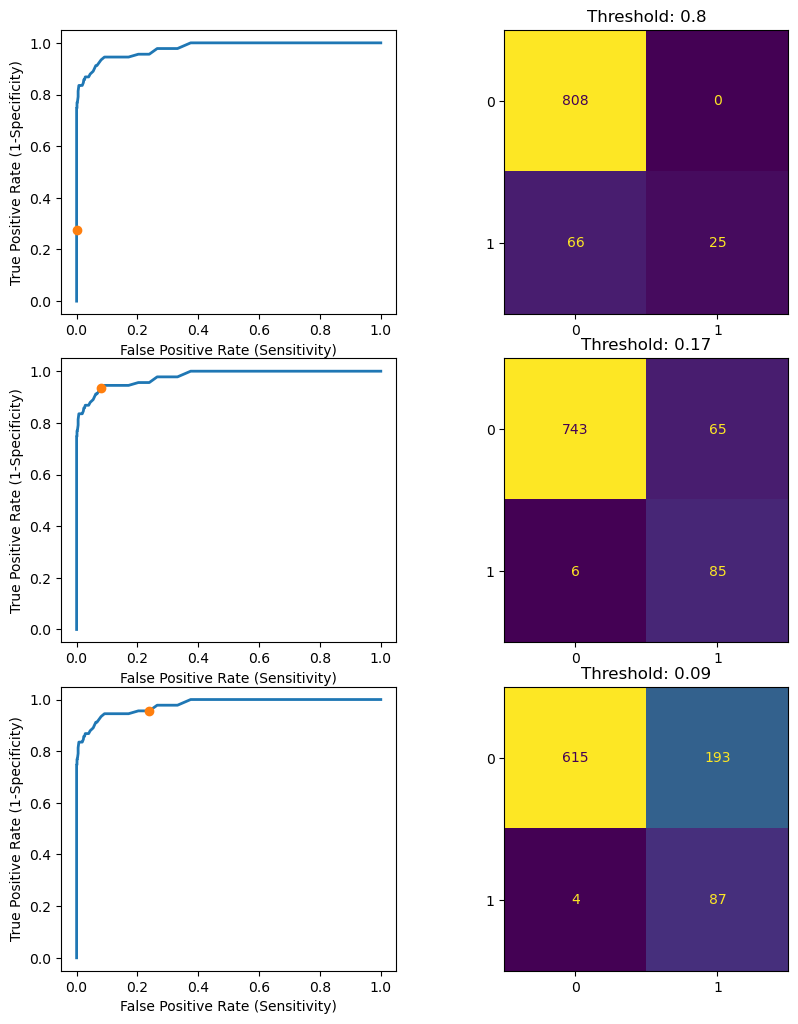
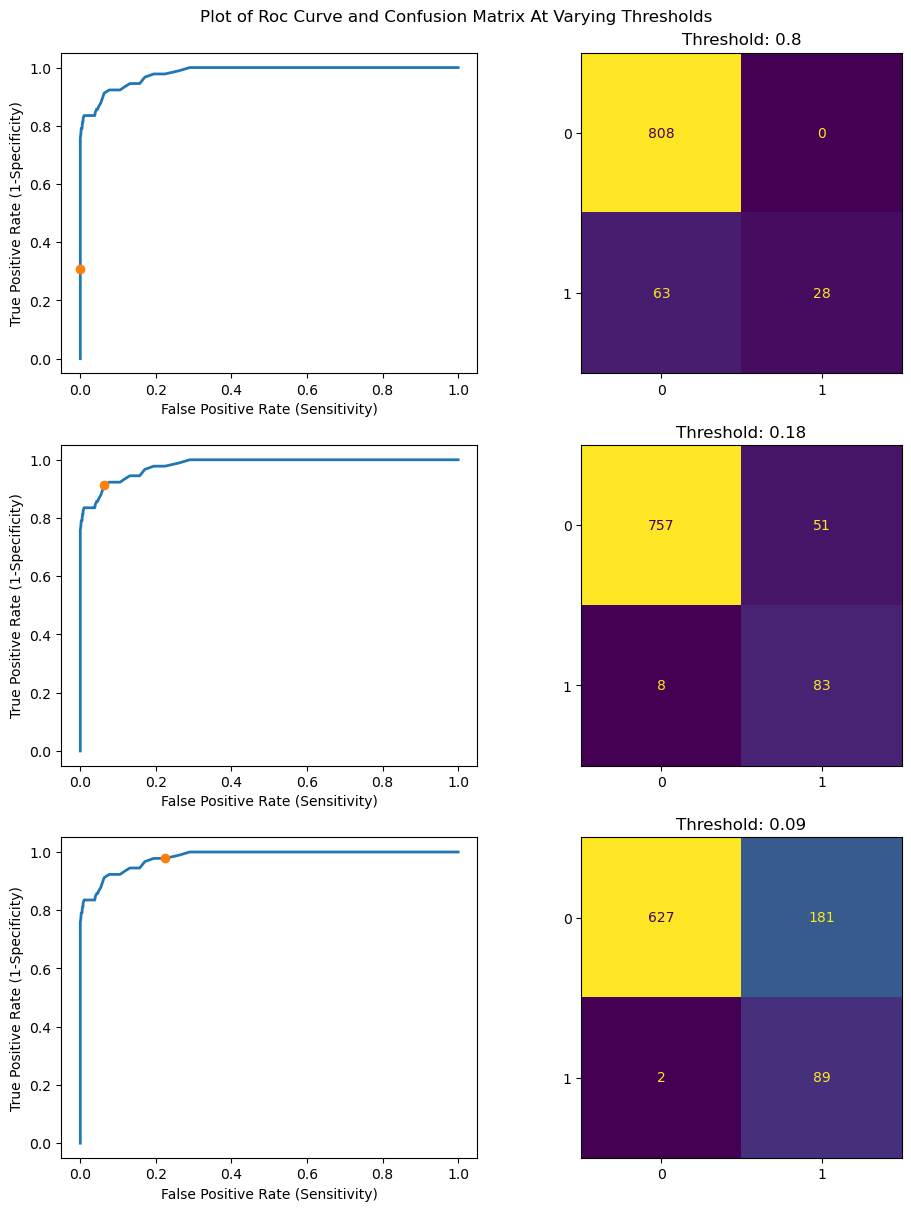
Built site for gh-pages

diff --git a/index.html b/index.html
@@ -135,7 +135,7 @@ pre > code.sourceCode > span > a:first-child::before { text-decoration: underlin
 <p>In addition, we’ll explore the decision-making process behind selecting a classification threshold and briefly discuss the implications of the area under the curve (AUC) for varying receiver operating characteristic (ROC) curves.</p>
 <p>It should be noted that this article uses a modified version of the digits dataset provided by sci-kit learn.</p>
 <p>Our version of the digits dataset converts the target lists for the classification task to boolean values, such that they are only valid for the digit “3” and invalid for all other digits – restricting our data to two classes.</p>
-<div class="cell" data-execution_count="2">
+<div class="cell" data-execution_count="14">
 <details>
 <summary>Code</summary>
 <div class="sourceCode cell-code" id="cb1"><pre class="sourceCode python code-with-copy"><code class="sourceCode python"><span id="cb1-1"><a href="#cb1-1" aria-hidden="true" tabindex="-1"></a><span class="co"># Loading and processing digits dataset</span></span>
@@ -163,7 +163,7 @@ pre > code.sourceCode > span > a:first-child::before { text-decoration: underlin
 <p>False-Positive Rate (1-specificity):</p>
 <p><span class="math inline">FP/(FP+TN)</span></p>
 <p>The plot below is an example of a ROC curve produced using our version of the digits dataset.</p>
-<div class="cell" data-execution_count="3">
+<div class="cell" data-execution_count="15">
 <details>
 <summary>Code</summary>
 <div class="sourceCode cell-code" id="cb2"><pre class="sourceCode python code-with-copy"><code class="sourceCode python"><span id="cb2-1"><a href="#cb2-1" aria-hidden="true" tabindex="-1"></a><span class="co"># Create classifier: RF </span></span>
@@ -176,10 +176,10 @@ pre > code.sourceCode > span > a:first-child::before { text-decoration: underlin
 <span id="cb2-8"><a href="#cb2-8" aria-hidden="true" tabindex="-1"></a>clf_pred <span class="op">=</span> clf.predict_proba(X_test)</span>
 <span id="cb2-9"><a href="#cb2-9" aria-hidden="true" tabindex="-1"></a></span>
 <span id="cb2-10"><a href="#cb2-10" aria-hidden="true" tabindex="-1"></a>fpr, tpr, thresholds <span class="op">=</span> metrics.roc_curve(y_test_mod, clf_pred[:,<span class="dv">1</span>])</span>
-<span id="cb2-11"><a href="#cb2-11" aria-hidden="true" tabindex="-1"></a>plt.figure(figsize<span class="op">=</span>(<span class="dv">5</span>,<span class="dv">3</span>))</span>
-<span id="cb2-12"><a href="#cb2-12" aria-hidden="true" tabindex="-1"></a>plt.plot(fpr, tpr, linewidth<span class="op">=</span><span class="dv">2</span>, label<span class="op">=</span><span class="st">"ROC curve"</span>)</span>
-<span id="cb2-13"><a href="#cb2-13" aria-hidden="true" tabindex="-1"></a>plt.xlabel(<span class="st">'False Positive Rate (Sensitivity)'</span>)</span>
-<span id="cb2-14"><a href="#cb2-14" aria-hidden="true" tabindex="-1"></a>plt.ylabel(<span class="st">'True Positive Rate (1-Specificity)'</span>)</span>
+<span id="cb2-11"><a href="#cb2-11" aria-hidden="true" tabindex="-1"></a>plt.title(<span class="st">"ROC Curve"</span>)</span>
+<span id="cb2-12"><a href="#cb2-12" aria-hidden="true" tabindex="-1"></a>plt.plot(fpr, tpr, linewidth<span class="op">=</span><span class="dv">2</span>)</span>
+<span id="cb2-13"><a href="#cb2-13" aria-hidden="true" tabindex="-1"></a>plt.xlabel(<span class="st">"False Positive Rate (Sensitivity)"</span>)</span>
+<span id="cb2-14"><a href="#cb2-14" aria-hidden="true" tabindex="-1"></a>plt.ylabel(<span class="st">"True Positive Rate (1-Specificity)"</span>)</span>
 <span id="cb2-15"><a href="#cb2-15" aria-hidden="true" tabindex="-1"></a></span>
 <span id="cb2-16"><a href="#cb2-16" aria-hidden="true" tabindex="-1"></a>plt.show()</span></code><button title="Copy to Clipboard" class="code-copy-button"><i class="bi"></i></button></pre></div>
 </details>
@@ -193,7 +193,7 @@ pre > code.sourceCode > span > a:first-child::before { text-decoration: underlin
 <p>For a given test, we have a classification <strong>threshold</strong> for which any items above the threshold are part of the positive class and any items below the threshold are part of the negative class.</p>
 <p>As mentioned previously, the ROC curve visualizes how sensitivity and specificity are negatively correlated to each other with respect to these changes in the classification threshold.</p>
 <p>Consider the plots of our digits datasets with varying thresholds below:</p>
-<div class="cell" data-execution_count="4">
+<div class="cell" data-execution_count="16">
 <details>
 <summary>Code</summary>
 <div class="sourceCode cell-code" id="cb3"><pre class="sourceCode python code-with-copy"><code class="sourceCode python"><span id="cb3-1"><a href="#cb3-1" aria-hidden="true" tabindex="-1"></a>diff_fpr_tpr <span class="op">=</span> tpr <span class="op">-</span> fpr</span>
@@ -202,21 +202,21 @@ pre > code.sourceCode > span > a:first-child::before { text-decoration: underlin
 <span id="cb3-4"><a href="#cb3-4" aria-hidden="true" tabindex="-1"></a>index_l <span class="op">=</span> (thresholds <span class="op">&gt;=</span> <span class="fl">0.1</span>).argmin() <span class="co"># min index at cut off 0.1</span></span>
 <span id="cb3-5"><a href="#cb3-5" aria-hidden="true" tabindex="-1"></a>threshold_index <span class="op">=</span> [index_h,index_m,index_l] </span>
 <span id="cb3-6"><a href="#cb3-6" aria-hidden="true" tabindex="-1"></a></span>
-<span id="cb3-7"><a href="#cb3-7" aria-hidden="true" tabindex="-1"></a>f, axes <span class="op">=</span> plt.subplots(<span class="dv">3</span>, <span class="dv">2</span>, figsize<span class="op">=</span>(<span class="dv">8</span>, <span class="dv">10</span>))</span>
-<span id="cb3-8"><a href="#cb3-8" aria-hidden="true" tabindex="-1"></a>f.tight_layout()</span>
+<span id="cb3-7"><a href="#cb3-7" aria-hidden="true" tabindex="-1"></a>f, axes <span class="op">=</span> plt.subplots(<span class="dv">3</span>, <span class="dv">2</span>, figsize<span class="op">=</span>(<span class="dv">9</span>, <span class="dv">12</span>), constrained_layout<span class="op">=</span><span class="va">True</span>)</span>
+<span id="cb3-8"><a href="#cb3-8" aria-hidden="true" tabindex="-1"></a>f.suptitle(<span class="st">"Plot of Roc Curve and Confusion Matrix At Varying Thresholds"</span>)</span>
 <span id="cb3-9"><a href="#cb3-9" aria-hidden="true" tabindex="-1"></a><span class="cf">for</span> i <span class="kw">in</span> <span class="bu">range</span>(<span class="dv">3</span>):</span>
-<span id="cb3-10"><a href="#cb3-10" aria-hidden="true" tabindex="-1"></a>    cf_matrix <span class="op">=</span> metrics.confusion_matrix(y_test_mod, (clf_pred[:,<span class="dv">1</span>] <span class="op">&gt;=</span> thresholds[threshold_index[i]]).astype(<span class="st">'int'</span>))</span>
+<span id="cb3-10"><a href="#cb3-10" aria-hidden="true" tabindex="-1"></a>    cf_matrix <span class="op">=</span> metrics.confusion_matrix(y_test_mod, (clf_pred[:,<span class="dv">1</span>] <span class="op">&gt;=</span> thresholds[threshold_index[i]]).astype(<span class="st">"int"</span>))</span>
 <span id="cb3-11"><a href="#cb3-11" aria-hidden="true" tabindex="-1"></a>    cf_disp <span class="op">=</span> metrics.ConfusionMatrixDisplay(cf_matrix)</span>
 <span id="cb3-12"><a href="#cb3-12" aria-hidden="true" tabindex="-1"></a>    cf_disp.plot(ax<span class="op">=</span>axes[i][<span class="dv">1</span>])</span>
 <span id="cb3-13"><a href="#cb3-13" aria-hidden="true" tabindex="-1"></a>    cf_disp.im_.colorbar.remove()</span>
 <span id="cb3-14"><a href="#cb3-14" aria-hidden="true" tabindex="-1"></a>    out_str <span class="op">=</span> <span class="bu">str</span>(thresholds[threshold_index[i]])</span>
-<span id="cb3-15"><a href="#cb3-15" aria-hidden="true" tabindex="-1"></a>    axes[i][<span class="dv">1</span>].set_xlabel(<span class="st">''</span>)</span>
-<span id="cb3-16"><a href="#cb3-16" aria-hidden="true" tabindex="-1"></a>    axes[i][<span class="dv">1</span>].set_ylabel(<span class="st">''</span>)</span>
+<span id="cb3-15"><a href="#cb3-15" aria-hidden="true" tabindex="-1"></a>    axes[i][<span class="dv">1</span>].set_xlabel(<span class="st">""</span>)</span>
+<span id="cb3-16"><a href="#cb3-16" aria-hidden="true" tabindex="-1"></a>    axes[i][<span class="dv">1</span>].set_ylabel(<span class="st">""</span>)</span>
 <span id="cb3-17"><a href="#cb3-17" aria-hidden="true" tabindex="-1"></a></span>
-<span id="cb3-18"><a href="#cb3-18" aria-hidden="true" tabindex="-1"></a>    axes[i,<span class="dv">1</span>].set_title(<span class="st">'Threshold: '</span> <span class="op">+</span> out_str)</span>
+<span id="cb3-18"><a href="#cb3-18" aria-hidden="true" tabindex="-1"></a>    axes[i,<span class="dv">1</span>].set_title(<span class="st">"Threshold: "</span> <span class="op">+</span> out_str)</span>
 <span id="cb3-19"><a href="#cb3-19" aria-hidden="true" tabindex="-1"></a>    axes[i,<span class="dv">0</span>].plot(fpr, tpr, linewidth<span class="op">=</span><span class="dv">2</span>, label<span class="op">=</span><span class="st">"ROC curve"</span>)</span>
-<span id="cb3-20"><a href="#cb3-20" aria-hidden="true" tabindex="-1"></a>    axes[i,<span class="dv">0</span>].plot(fpr[threshold_index[i]],tpr[threshold_index[i]],<span class="st">'o'</span>)</span>
-<span id="cb3-21"><a href="#cb3-21" aria-hidden="true" tabindex="-1"></a>    axes[i,<span class="dv">0</span>].<span class="bu">set</span>(xlabel<span class="op">=</span><span class="st">'False Positive Rate (Sensitivity)'</span>, ylabel<span class="op">=</span><span class="st">'True Positive Rate (1-Specificity)'</span>)</span>
+<span id="cb3-20"><a href="#cb3-20" aria-hidden="true" tabindex="-1"></a>    axes[i,<span class="dv">0</span>].plot(fpr[threshold_index[i]],tpr[threshold_index[i]],<span class="st">"o"</span>)</span>
+<span id="cb3-21"><a href="#cb3-21" aria-hidden="true" tabindex="-1"></a>    axes[i,<span class="dv">0</span>].<span class="bu">set</span>(xlabel<span class="op">=</span><span class="st">"False Positive Rate (Sensitivity)"</span>, ylabel<span class="op">=</span><span class="st">"True Positive Rate (1-Specificity)"</span>)</span>
 <span id="cb3-22"><a href="#cb3-22" aria-hidden="true" tabindex="-1"></a></span>
 <span id="cb3-23"><a href="#cb3-23" aria-hidden="true" tabindex="-1"></a>plt.show()</span></code><button title="Copy to Clipboard" class="code-copy-button"><i class="bi"></i></button></pre></div>
 </details>
@@ -232,21 +232,19 @@ pre > code.sourceCode > span > a:first-child::before { text-decoration: underlin
 <p>We observed the effects of changes in threshold on both sensitivity and specificity using the ROC curve in the previous example.</p>
 <p>However, when it comes to selecting a threshold, we must consider the classification model on a case-by-case basis.</p>
 <p>To select the ideal classification threshold, it’s crucial to consider the context of the classification model.</p>
-<div class="cell" data-execution_count="5">
+<div class="cell" data-execution_count="17">
 <details>
 <summary>Code</summary>
-<div class="sourceCode cell-code" id="cb4"><pre class="sourceCode python code-with-copy"><code class="sourceCode python"><span id="cb4-1"><a href="#cb4-1" aria-hidden="true" tabindex="-1"></a>plt.figure(figsize<span class="op">=</span>(<span class="dv">5</span>,<span class="dv">3</span>))</span>
-<span id="cb4-2"><a href="#cb4-2" aria-hidden="true" tabindex="-1"></a>plt.plot(fpr, tpr, linewidth<span class="op">=</span><span class="dv">2</span>, label<span class="op">=</span><span class="st">"ROC curve"</span>)</span>
-<span id="cb4-3"><a href="#cb4-3" aria-hidden="true" tabindex="-1"></a>plt.xlabel(<span class="st">'False Positive Rate (Sensitivity)'</span>)</span>
-<span id="cb4-4"><a href="#cb4-4" aria-hidden="true" tabindex="-1"></a>plt.ylabel(<span class="st">'True Positive Rate (1-Specificity)'</span>)</span>
-<span id="cb4-5"><a href="#cb4-5" aria-hidden="true" tabindex="-1"></a></span>
-<span id="cb4-6"><a href="#cb4-6" aria-hidden="true" tabindex="-1"></a><span class="cf">for</span> i <span class="kw">in</span> <span class="bu">range</span>(<span class="dv">3</span>):</span>
-<span id="cb4-7"><a href="#cb4-7" aria-hidden="true" tabindex="-1"></a>    plt.plot(fpr[threshold_index[i]],tpr[threshold_index[i]],<span class="st">'o'</span>)</span>
-<span id="cb4-8"><a href="#cb4-8" aria-hidden="true" tabindex="-1"></a>    plt.annotate(<span class="st">"Point "</span><span class="op">+</span><span class="bu">str</span>(i<span class="op">+</span><span class="dv">1</span>),(fpr[threshold_index[i]],tpr[threshold_index[i]]),</span>
-<span id="cb4-9"><a href="#cb4-9" aria-hidden="true" tabindex="-1"></a>                xytext<span class="op">=</span>(fpr[threshold_index[i]]<span class="op">+</span><span class="fl">0.1</span>,tpr[threshold_index[i]]<span class="op">-</span><span class="fl">0.1</span>),arrowprops<span class="op">=</span><span class="bu">dict</span>(arrowstyle<span class="op">=</span><span class="st">"-&gt;"</span>))</span>
-<span id="cb4-10"><a href="#cb4-10" aria-hidden="true" tabindex="-1"></a></span>
-<span id="cb4-11"><a href="#cb4-11" aria-hidden="true" tabindex="-1"></a></span>
-<span id="cb4-12"><a href="#cb4-12" aria-hidden="true" tabindex="-1"></a>plt.show()</span></code><button title="Copy to Clipboard" class="code-copy-button"><i class="bi"></i></button></pre></div>
+<div class="sourceCode cell-code" id="cb4"><pre class="sourceCode python code-with-copy"><code class="sourceCode python"><span id="cb4-1"><a href="#cb4-1" aria-hidden="true" tabindex="-1"></a>plt.plot(fpr, tpr, linewidth<span class="op">=</span><span class="dv">2</span>, label<span class="op">=</span><span class="st">"ROC curve"</span>)</span>
+<span id="cb4-2"><a href="#cb4-2" aria-hidden="true" tabindex="-1"></a>plt.xlabel(<span class="st">"False Positive Rate (Sensitivity)"</span>)</span>
+<span id="cb4-3"><a href="#cb4-3" aria-hidden="true" tabindex="-1"></a>plt.ylabel(<span class="st">"True Positive Rate (1-Specificity)"</span>)</span>
+<span id="cb4-4"><a href="#cb4-4" aria-hidden="true" tabindex="-1"></a><span class="cf">for</span> i <span class="kw">in</span> <span class="bu">range</span>(<span class="dv">3</span>):</span>
+<span id="cb4-5"><a href="#cb4-5" aria-hidden="true" tabindex="-1"></a>    plt.plot(fpr[threshold_index[i]],tpr[threshold_index[i]],<span class="st">"o"</span>)</span>
+<span id="cb4-6"><a href="#cb4-6" aria-hidden="true" tabindex="-1"></a>    plt.annotate(<span class="st">"Point "</span><span class="op">+</span><span class="bu">str</span>(i<span class="op">+</span><span class="dv">1</span>)<span class="op">+</span><span class="st">" (Threshold "</span><span class="op">+</span><span class="bu">str</span>(thresholds[threshold_index[i]])<span class="op">+</span><span class="st">")"</span>,(fpr[threshold_index[i]],tpr[threshold_index[i]]),</span>
+<span id="cb4-7"><a href="#cb4-7" aria-hidden="true" tabindex="-1"></a>                xytext<span class="op">=</span>(fpr[threshold_index[i]]<span class="op">+</span><span class="fl">0.1</span>,tpr[threshold_index[i]]<span class="op">-</span><span class="fl">0.1</span>),arrowprops<span class="op">=</span><span class="bu">dict</span>(arrowstyle<span class="op">=</span><span class="st">"-&gt;"</span>))</span>
+<span id="cb4-8"><a href="#cb4-8" aria-hidden="true" tabindex="-1"></a></span>
+<span id="cb4-9"><a href="#cb4-9" aria-hidden="true" tabindex="-1"></a></span>
+<span id="cb4-10"><a href="#cb4-10" aria-hidden="true" tabindex="-1"></a>plt.show()</span></code><button title="Copy to Clipboard" class="code-copy-button"><i class="bi"></i></button></pre></div>
 </details>
 <div class="cell-output cell-output-display">
 <p><img src="roc_files/figure-html/cell-6-output-1.png" class="img-fluid"></p>
@@ -263,16 +261,17 @@ pre > code.sourceCode > span > a:first-child::before { text-decoration: underlin
 <p>Similarly to how the ROC curve gives a quick visual representation of the relationship between TPR and FPR, it also helps us understand the classifier’s accuracy.</p>
 <p>One way to compare classifiers is to calculate the area under the curve (AUC).</p>
 <p>The plot generated below compares our classifier with a random and ideal classifier.</p>
-<div class="cell" data-execution_count="6">
+<div class="cell" data-execution_count="18">
 <details>
 <summary>Code</summary>
-<div class="sourceCode cell-code" id="cb5"><pre class="sourceCode python code-with-copy"><code class="sourceCode python"><span id="cb5-1"><a href="#cb5-1" aria-hidden="true" tabindex="-1"></a>plt.figure(figsize<span class="op">=</span>(<span class="dv">5</span>,<span class="dv">3</span>))</span>
-<span id="cb5-2"><a href="#cb5-2" aria-hidden="true" tabindex="-1"></a>plt.plot(fpr, tpr, linewidth<span class="op">=</span><span class="dv">2</span>, label<span class="op">=</span>(<span class="st">"RF classifier - AUC "</span><span class="op">+</span><span class="bu">str</span>(metrics.auc(fpr,tpr))[:<span class="dv">4</span>]))</span>
-<span id="cb5-3"><a href="#cb5-3" aria-hidden="true" tabindex="-1"></a>plt.plot([<span class="dv">0</span>, <span class="dv">1</span>], [<span class="dv">0</span>, <span class="dv">1</span>], <span class="st">'--'</span>, label<span class="op">=</span><span class="st">"Random Classifier - AUC 0.5"</span>)</span>
-<span id="cb5-4"><a href="#cb5-4" aria-hidden="true" tabindex="-1"></a>plt.plot([<span class="dv">0</span>,<span class="dv">0</span>, <span class="dv">1</span>], [<span class="dv">0</span>,<span class="dv">1</span>, <span class="dv">1</span>],<span class="st">'-.'</span>, label<span class="op">=</span><span class="st">"Ideal Classifier - AUC 1.0"</span>)</span>
-<span id="cb5-5"><a href="#cb5-5" aria-hidden="true" tabindex="-1"></a></span>
-<span id="cb5-6"><a href="#cb5-6" aria-hidden="true" tabindex="-1"></a>plt.legend()</span>
-<span id="cb5-7"><a href="#cb5-7" aria-hidden="true" tabindex="-1"></a>plt.show()</span></code><button title="Copy to Clipboard" class="code-copy-button"><i class="bi"></i></button></pre></div>
+<div class="sourceCode cell-code" id="cb5"><pre class="sourceCode python code-with-copy"><code class="sourceCode python"><span id="cb5-1"><a href="#cb5-1" aria-hidden="true" tabindex="-1"></a>plt.plot(fpr, tpr, linewidth<span class="op">=</span><span class="dv">2</span>, label<span class="op">=</span>(<span class="st">"RF classifier - AUC "</span><span class="op">+</span><span class="bu">str</span>(metrics.auc(fpr,tpr))[:<span class="dv">4</span>]))</span>
+<span id="cb5-2"><a href="#cb5-2" aria-hidden="true" tabindex="-1"></a>plt.plot([<span class="dv">0</span>, <span class="dv">1</span>], [<span class="dv">0</span>, <span class="dv">1</span>], <span class="st">"--"</span>, label<span class="op">=</span><span class="st">"Random Classifier - AUC 0.5"</span>)</span>
+<span id="cb5-3"><a href="#cb5-3" aria-hidden="true" tabindex="-1"></a>plt.plot([<span class="dv">0</span>,<span class="dv">0</span>, <span class="dv">1</span>], [<span class="dv">0</span>,<span class="dv">1</span>, <span class="dv">1</span>],<span class="st">"-."</span>, label<span class="op">=</span><span class="st">"Ideal Classifier - AUC 1.0"</span>)</span>
+<span id="cb5-4"><a href="#cb5-4" aria-hidden="true" tabindex="-1"></a>plt.xlabel(<span class="st">"False Positive Rate (Sensitivity)"</span>)</span>
+<span id="cb5-5"><a href="#cb5-5" aria-hidden="true" tabindex="-1"></a>plt.ylabel(<span class="st">"True Positive Rate (1-Specificity)"</span>)</span>
+<span id="cb5-6"><a href="#cb5-6" aria-hidden="true" tabindex="-1"></a></span>
+<span id="cb5-7"><a href="#cb5-7" aria-hidden="true" tabindex="-1"></a>plt.legend()</span>
+<span id="cb5-8"><a href="#cb5-8" aria-hidden="true" tabindex="-1"></a>plt.show()</span></code><button title="Copy to Clipboard" class="code-copy-button"><i class="bi"></i></button></pre></div>
 </details>
 <div class="cell-output cell-output-display">
 <p><img src="roc_files/figure-html/cell-7-output-1.png" class="img-fluid"></p>

diff --git a/roc.html b/roc.html
@@ -135,7 +135,7 @@ pre > code.sourceCode > span > a:first-child::before { text-decoration: underlin
 <p>In addition, we’ll explore the decision-making process behind selecting a classification threshold and briefly discuss the implications of the area under the curve (AUC) for varying receiver operating characteristic (ROC) curves.</p>
 <p>It should be noted that this article uses a modified version of the digits dataset provided by sci-kit learn.</p>
 <p>Our version of the digits dataset converts the target lists for the classification task to boolean values, such that they are only valid for the digit “3” and invalid for all other digits – restricting our data to two classes.</p>
-<div class="cell" data-execution_count="2">
+<div class="cell" data-execution_count="14">
 <details>
 <summary>Code</summary>
 <div class="sourceCode cell-code" id="cb1"><pre class="sourceCode python code-with-copy"><code class="sourceCode python"><span id="cb1-1"><a href="#cb1-1" aria-hidden="true" tabindex="-1"></a><span class="co"># Loading and processing digits dataset</span></span>
@@ -163,7 +163,7 @@ pre > code.sourceCode > span > a:first-child::before { text-decoration: underlin
 <p>False-Positive Rate (1-specificity):</p>
 <p><span class="math inline">FP/(FP+TN)</span></p>
 <p>The plot below is an example of a ROC curve produced using our version of the digits dataset.</p>
-<div class="cell" data-execution_count="3">
+<div class="cell" data-execution_count="15">
 <details>
 <summary>Code</summary>
 <div class="sourceCode cell-code" id="cb2"><pre class="sourceCode python code-with-copy"><code class="sourceCode python"><span id="cb2-1"><a href="#cb2-1" aria-hidden="true" tabindex="-1"></a><span class="co"># Create classifier: RF </span></span>
@@ -176,10 +176,10 @@ pre > code.sourceCode > span > a:first-child::before { text-decoration: underlin
 <span id="cb2-8"><a href="#cb2-8" aria-hidden="true" tabindex="-1"></a>clf_pred <span class="op">=</span> clf.predict_proba(X_test)</span>
 <span id="cb2-9"><a href="#cb2-9" aria-hidden="true" tabindex="-1"></a></span>
 <span id="cb2-10"><a href="#cb2-10" aria-hidden="true" tabindex="-1"></a>fpr, tpr, thresholds <span class="op">=</span> metrics.roc_curve(y_test_mod, clf_pred[:,<span class="dv">1</span>])</span>
-<span id="cb2-11"><a href="#cb2-11" aria-hidden="true" tabindex="-1"></a>plt.figure(figsize<span class="op">=</span>(<span class="dv">5</span>,<span class="dv">3</span>))</span>
-<span id="cb2-12"><a href="#cb2-12" aria-hidden="true" tabindex="-1"></a>plt.plot(fpr, tpr, linewidth<span class="op">=</span><span class="dv">2</span>, label<span class="op">=</span><span class="st">"ROC curve"</span>)</span>
-<span id="cb2-13"><a href="#cb2-13" aria-hidden="true" tabindex="-1"></a>plt.xlabel(<span class="st">'False Positive Rate (Sensitivity)'</span>)</span>
-<span id="cb2-14"><a href="#cb2-14" aria-hidden="true" tabindex="-1"></a>plt.ylabel(<span class="st">'True Positive Rate (1-Specificity)'</span>)</span>
+<span id="cb2-11"><a href="#cb2-11" aria-hidden="true" tabindex="-1"></a>plt.title(<span class="st">"ROC Curve"</span>)</span>
+<span id="cb2-12"><a href="#cb2-12" aria-hidden="true" tabindex="-1"></a>plt.plot(fpr, tpr, linewidth<span class="op">=</span><span class="dv">2</span>)</span>
+<span id="cb2-13"><a href="#cb2-13" aria-hidden="true" tabindex="-1"></a>plt.xlabel(<span class="st">"False Positive Rate (Sensitivity)"</span>)</span>
+<span id="cb2-14"><a href="#cb2-14" aria-hidden="true" tabindex="-1"></a>plt.ylabel(<span class="st">"True Positive Rate (1-Specificity)"</span>)</span>
 <span id="cb2-15"><a href="#cb2-15" aria-hidden="true" tabindex="-1"></a></span>
 <span id="cb2-16"><a href="#cb2-16" aria-hidden="true" tabindex="-1"></a>plt.show()</span></code><button title="Copy to Clipboard" class="code-copy-button"><i class="bi"></i></button></pre></div>
 </details>
@@ -193,7 +193,7 @@ pre > code.sourceCode > span > a:first-child::before { text-decoration: underlin
 <p>For a given test, we have a classification <strong>threshold</strong> for which any items above the threshold are part of the positive class and any items below the threshold are part of the negative class.</p>
 <p>As mentioned previously, the ROC curve visualizes how sensitivity and specificity are negatively correlated to each other with respect to these changes in the classification threshold.</p>
 <p>Consider the plots of our digits datasets with varying thresholds below:</p>
-<div class="cell" data-execution_count="4">
+<div class="cell" data-execution_count="16">
 <details>
 <summary>Code</summary>
 <div class="sourceCode cell-code" id="cb3"><pre class="sourceCode python code-with-copy"><code class="sourceCode python"><span id="cb3-1"><a href="#cb3-1" aria-hidden="true" tabindex="-1"></a>diff_fpr_tpr <span class="op">=</span> tpr <span class="op">-</span> fpr</span>
@@ -202,21 +202,21 @@ pre > code.sourceCode > span > a:first-child::before { text-decoration: underlin
 <span id="cb3-4"><a href="#cb3-4" aria-hidden="true" tabindex="-1"></a>index_l <span class="op">=</span> (thresholds <span class="op">&gt;=</span> <span class="fl">0.1</span>).argmin() <span class="co"># min index at cut off 0.1</span></span>
 <span id="cb3-5"><a href="#cb3-5" aria-hidden="true" tabindex="-1"></a>threshold_index <span class="op">=</span> [index_h,index_m,index_l] </span>
 <span id="cb3-6"><a href="#cb3-6" aria-hidden="true" tabindex="-1"></a></span>
-<span id="cb3-7"><a href="#cb3-7" aria-hidden="true" tabindex="-1"></a>f, axes <span class="op">=</span> plt.subplots(<span class="dv">3</span>, <span class="dv">2</span>, figsize<span class="op">=</span>(<span class="dv">8</span>, <span class="dv">10</span>))</span>
-<span id="cb3-8"><a href="#cb3-8" aria-hidden="true" tabindex="-1"></a>f.tight_layout()</span>
+<span id="cb3-7"><a href="#cb3-7" aria-hidden="true" tabindex="-1"></a>f, axes <span class="op">=</span> plt.subplots(<span class="dv">3</span>, <span class="dv">2</span>, figsize<span class="op">=</span>(<span class="dv">9</span>, <span class="dv">12</span>), constrained_layout<span class="op">=</span><span class="va">True</span>)</span>
+<span id="cb3-8"><a href="#cb3-8" aria-hidden="true" tabindex="-1"></a>f.suptitle(<span class="st">"Plot of Roc Curve and Confusion Matrix At Varying Thresholds"</span>)</span>
 <span id="cb3-9"><a href="#cb3-9" aria-hidden="true" tabindex="-1"></a><span class="cf">for</span> i <span class="kw">in</span> <span class="bu">range</span>(<span class="dv">3</span>):</span>
-<span id="cb3-10"><a href="#cb3-10" aria-hidden="true" tabindex="-1"></a>    cf_matrix <span class="op">=</span> metrics.confusion_matrix(y_test_mod, (clf_pred[:,<span class="dv">1</span>] <span class="op">&gt;=</span> thresholds[threshold_index[i]]).astype(<span class="st">'int'</span>))</span>
+<span id="cb3-10"><a href="#cb3-10" aria-hidden="true" tabindex="-1"></a>    cf_matrix <span class="op">=</span> metrics.confusion_matrix(y_test_mod, (clf_pred[:,<span class="dv">1</span>] <span class="op">&gt;=</span> thresholds[threshold_index[i]]).astype(<span class="st">"int"</span>))</span>
 <span id="cb3-11"><a href="#cb3-11" aria-hidden="true" tabindex="-1"></a>    cf_disp <span class="op">=</span> metrics.ConfusionMatrixDisplay(cf_matrix)</span>
 <span id="cb3-12"><a href="#cb3-12" aria-hidden="true" tabindex="-1"></a>    cf_disp.plot(ax<span class="op">=</span>axes[i][<span class="dv">1</span>])</span>
 <span id="cb3-13"><a href="#cb3-13" aria-hidden="true" tabindex="-1"></a>    cf_disp.im_.colorbar.remove()</span>
 <span id="cb3-14"><a href="#cb3-14" aria-hidden="true" tabindex="-1"></a>    out_str <span class="op">=</span> <span class="bu">str</span>(thresholds[threshold_index[i]])</span>
-<span id="cb3-15"><a href="#cb3-15" aria-hidden="true" tabindex="-1"></a>    axes[i][<span class="dv">1</span>].set_xlabel(<span class="st">''</span>)</span>
-<span id="cb3-16"><a href="#cb3-16" aria-hidden="true" tabindex="-1"></a>    axes[i][<span class="dv">1</span>].set_ylabel(<span class="st">''</span>)</span>
+<span id="cb3-15"><a href="#cb3-15" aria-hidden="true" tabindex="-1"></a>    axes[i][<span class="dv">1</span>].set_xlabel(<span class="st">""</span>)</span>
+<span id="cb3-16"><a href="#cb3-16" aria-hidden="true" tabindex="-1"></a>    axes[i][<span class="dv">1</span>].set_ylabel(<span class="st">""</span>)</span>
 <span id="cb3-17"><a href="#cb3-17" aria-hidden="true" tabindex="-1"></a></span>
-<span id="cb3-18"><a href="#cb3-18" aria-hidden="true" tabindex="-1"></a>    axes[i,<span class="dv">1</span>].set_title(<span class="st">'Threshold: '</span> <span class="op">+</span> out_str)</span>
+<span id="cb3-18"><a href="#cb3-18" aria-hidden="true" tabindex="-1"></a>    axes[i,<span class="dv">1</span>].set_title(<span class="st">"Threshold: "</span> <span class="op">+</span> out_str)</span>
 <span id="cb3-19"><a href="#cb3-19" aria-hidden="true" tabindex="-1"></a>    axes[i,<span class="dv">0</span>].plot(fpr, tpr, linewidth<span class="op">=</span><span class="dv">2</span>, label<span class="op">=</span><span class="st">"ROC curve"</span>)</span>
-<span id="cb3-20"><a href="#cb3-20" aria-hidden="true" tabindex="-1"></a>    axes[i,<span class="dv">0</span>].plot(fpr[threshold_index[i]],tpr[threshold_index[i]],<span class="st">'o'</span>)</span>
-<span id="cb3-21"><a href="#cb3-21" aria-hidden="true" tabindex="-1"></a>    axes[i,<span class="dv">0</span>].<span class="bu">set</span>(xlabel<span class="op">=</span><span class="st">'False Positive Rate (Sensitivity)'</span>, ylabel<span class="op">=</span><span class="st">'True Positive Rate (1-Specificity)'</span>)</span>
+<span id="cb3-20"><a href="#cb3-20" aria-hidden="true" tabindex="-1"></a>    axes[i,<span class="dv">0</span>].plot(fpr[threshold_index[i]],tpr[threshold_index[i]],<span class="st">"o"</span>)</span>
+<span id="cb3-21"><a href="#cb3-21" aria-hidden="true" tabindex="-1"></a>    axes[i,<span class="dv">0</span>].<span class="bu">set</span>(xlabel<span class="op">=</span><span class="st">"False Positive Rate (Sensitivity)"</span>, ylabel<span class="op">=</span><span class="st">"True Positive Rate (1-Specificity)"</span>)</span>
 <span id="cb3-22"><a href="#cb3-22" aria-hidden="true" tabindex="-1"></a></span>
 <span id="cb3-23"><a href="#cb3-23" aria-hidden="true" tabindex="-1"></a>plt.show()</span></code><button title="Copy to Clipboard" class="code-copy-button"><i class="bi"></i></button></pre></div>
 </details>
@@ -232,21 +232,19 @@ pre > code.sourceCode > span > a:first-child::before { text-decoration: underlin
 <p>We observed the effects of changes in threshold on both sensitivity and specificity using the ROC curve in the previous example.</p>
 <p>However, when it comes to selecting a threshold, we must consider the classification model on a case-by-case basis.</p>
 <p>To select the ideal classification threshold, it’s crucial to consider the context of the classification model.</p>
-<div class="cell" data-execution_count="5">
+<div class="cell" data-execution_count="17">
 <details>
 <summary>Code</summary>
-<div class="sourceCode cell-code" id="cb4"><pre class="sourceCode python code-with-copy"><code class="sourceCode python"><span id="cb4-1"><a href="#cb4-1" aria-hidden="true" tabindex="-1"></a>plt.figure(figsize<span class="op">=</span>(<span class="dv">5</span>,<span class="dv">3</span>))</span>
-<span id="cb4-2"><a href="#cb4-2" aria-hidden="true" tabindex="-1"></a>plt.plot(fpr, tpr, linewidth<span class="op">=</span><span class="dv">2</span>, label<span class="op">=</span><span class="st">"ROC curve"</span>)</span>
-<span id="cb4-3"><a href="#cb4-3" aria-hidden="true" tabindex="-1"></a>plt.xlabel(<span class="st">'False Positive Rate (Sensitivity)'</span>)</span>
-<span id="cb4-4"><a href="#cb4-4" aria-hidden="true" tabindex="-1"></a>plt.ylabel(<span class="st">'True Positive Rate (1-Specificity)'</span>)</span>
-<span id="cb4-5"><a href="#cb4-5" aria-hidden="true" tabindex="-1"></a></span>
-<span id="cb4-6"><a href="#cb4-6" aria-hidden="true" tabindex="-1"></a><span class="cf">for</span> i <span class="kw">in</span> <span class="bu">range</span>(<span class="dv">3</span>):</span>
-<span id="cb4-7"><a href="#cb4-7" aria-hidden="true" tabindex="-1"></a>    plt.plot(fpr[threshold_index[i]],tpr[threshold_index[i]],<span class="st">'o'</span>)</span>
-<span id="cb4-8"><a href="#cb4-8" aria-hidden="true" tabindex="-1"></a>    plt.annotate(<span class="st">"Point "</span><span class="op">+</span><span class="bu">str</span>(i<span class="op">+</span><span class="dv">1</span>),(fpr[threshold_index[i]],tpr[threshold_index[i]]),</span>
-<span id="cb4-9"><a href="#cb4-9" aria-hidden="true" tabindex="-1"></a>                xytext<span class="op">=</span>(fpr[threshold_index[i]]<span class="op">+</span><span class="fl">0.1</span>,tpr[threshold_index[i]]<span class="op">-</span><span class="fl">0.1</span>),arrowprops<span class="op">=</span><span class="bu">dict</span>(arrowstyle<span class="op">=</span><span class="st">"-&gt;"</span>))</span>
-<span id="cb4-10"><a href="#cb4-10" aria-hidden="true" tabindex="-1"></a></span>
-<span id="cb4-11"><a href="#cb4-11" aria-hidden="true" tabindex="-1"></a></span>
-<span id="cb4-12"><a href="#cb4-12" aria-hidden="true" tabindex="-1"></a>plt.show()</span></code><button title="Copy to Clipboard" class="code-copy-button"><i class="bi"></i></button></pre></div>
+<div class="sourceCode cell-code" id="cb4"><pre class="sourceCode python code-with-copy"><code class="sourceCode python"><span id="cb4-1"><a href="#cb4-1" aria-hidden="true" tabindex="-1"></a>plt.plot(fpr, tpr, linewidth<span class="op">=</span><span class="dv">2</span>, label<span class="op">=</span><span class="st">"ROC curve"</span>)</span>
+<span id="cb4-2"><a href="#cb4-2" aria-hidden="true" tabindex="-1"></a>plt.xlabel(<span class="st">"False Positive Rate (Sensitivity)"</span>)</span>
+<span id="cb4-3"><a href="#cb4-3" aria-hidden="true" tabindex="-1"></a>plt.ylabel(<span class="st">"True Positive Rate (1-Specificity)"</span>)</span>
+<span id="cb4-4"><a href="#cb4-4" aria-hidden="true" tabindex="-1"></a><span class="cf">for</span> i <span class="kw">in</span> <span class="bu">range</span>(<span class="dv">3</span>):</span>
+<span id="cb4-5"><a href="#cb4-5" aria-hidden="true" tabindex="-1"></a>    plt.plot(fpr[threshold_index[i]],tpr[threshold_index[i]],<span class="st">"o"</span>)</span>
+<span id="cb4-6"><a href="#cb4-6" aria-hidden="true" tabindex="-1"></a>    plt.annotate(<span class="st">"Point "</span><span class="op">+</span><span class="bu">str</span>(i<span class="op">+</span><span class="dv">1</span>)<span class="op">+</span><span class="st">" (Threshold "</span><span class="op">+</span><span class="bu">str</span>(thresholds[threshold_index[i]])<span class="op">+</span><span class="st">")"</span>,(fpr[threshold_index[i]],tpr[threshold_index[i]]),</span>
+<span id="cb4-7"><a href="#cb4-7" aria-hidden="true" tabindex="-1"></a>                xytext<span class="op">=</span>(fpr[threshold_index[i]]<span class="op">+</span><span class="fl">0.1</span>,tpr[threshold_index[i]]<span class="op">-</span><span class="fl">0.1</span>),arrowprops<span class="op">=</span><span class="bu">dict</span>(arrowstyle<span class="op">=</span><span class="st">"-&gt;"</span>))</span>
+<span id="cb4-8"><a href="#cb4-8" aria-hidden="true" tabindex="-1"></a></span>
+<span id="cb4-9"><a href="#cb4-9" aria-hidden="true" tabindex="-1"></a></span>
+<span id="cb4-10"><a href="#cb4-10" aria-hidden="true" tabindex="-1"></a>plt.show()</span></code><button title="Copy to Clipboard" class="code-copy-button"><i class="bi"></i></button></pre></div>
 </details>
 <div class="cell-output cell-output-display">
 <p><img src="roc_files/figure-html/cell-6-output-1.png" class="img-fluid"></p>
@@ -263,16 +261,17 @@ pre > code.sourceCode > span > a:first-child::before { text-decoration: underlin
 <p>Similarly to how the ROC curve gives a quick visual representation of the relationship between TPR and FPR, it also helps us understand the classifier’s accuracy.</p>
 <p>One way to compare classifiers is to calculate the area under the curve (AUC).</p>
 <p>The plot generated below compares our classifier with a random and ideal classifier.</p>
-<div class="cell" data-execution_count="6">
+<div class="cell" data-execution_count="18">
 <details>
 <summary>Code</summary>
-<div class="sourceCode cell-code" id="cb5"><pre class="sourceCode python code-with-copy"><code class="sourceCode python"><span id="cb5-1"><a href="#cb5-1" aria-hidden="true" tabindex="-1"></a>plt.figure(figsize<span class="op">=</span>(<span class="dv">5</span>,<span class="dv">3</span>))</span>
-<span id="cb5-2"><a href="#cb5-2" aria-hidden="true" tabindex="-1"></a>plt.plot(fpr, tpr, linewidth<span class="op">=</span><span class="dv">2</span>, label<span class="op">=</span>(<span class="st">"RF classifier - AUC "</span><span class="op">+</span><span class="bu">str</span>(metrics.auc(fpr,tpr))[:<span class="dv">4</span>]))</span>
-<span id="cb5-3"><a href="#cb5-3" aria-hidden="true" tabindex="-1"></a>plt.plot([<span class="dv">0</span>, <span class="dv">1</span>], [<span class="dv">0</span>, <span class="dv">1</span>], <span class="st">'--'</span>, label<span class="op">=</span><span class="st">"Random Classifier - AUC 0.5"</span>)</span>
-<span id="cb5-4"><a href="#cb5-4" aria-hidden="true" tabindex="-1"></a>plt.plot([<span class="dv">0</span>,<span class="dv">0</span>, <span class="dv">1</span>], [<span class="dv">0</span>,<span class="dv">1</span>, <span class="dv">1</span>],<span class="st">'-.'</span>, label<span class="op">=</span><span class="st">"Ideal Classifier - AUC 1.0"</span>)</span>
-<span id="cb5-5"><a href="#cb5-5" aria-hidden="true" tabindex="-1"></a></span>
-<span id="cb5-6"><a href="#cb5-6" aria-hidden="true" tabindex="-1"></a>plt.legend()</span>
-<span id="cb5-7"><a href="#cb5-7" aria-hidden="true" tabindex="-1"></a>plt.show()</span></code><button title="Copy to Clipboard" class="code-copy-button"><i class="bi"></i></button></pre></div>
+<div class="sourceCode cell-code" id="cb5"><pre class="sourceCode python code-with-copy"><code class="sourceCode python"><span id="cb5-1"><a href="#cb5-1" aria-hidden="true" tabindex="-1"></a>plt.plot(fpr, tpr, linewidth<span class="op">=</span><span class="dv">2</span>, label<span class="op">=</span>(<span class="st">"RF classifier - AUC "</span><span class="op">+</span><span class="bu">str</span>(metrics.auc(fpr,tpr))[:<span class="dv">4</span>]))</span>
+<span id="cb5-2"><a href="#cb5-2" aria-hidden="true" tabindex="-1"></a>plt.plot([<span class="dv">0</span>, <span class="dv">1</span>], [<span class="dv">0</span>, <span class="dv">1</span>], <span class="st">"--"</span>, label<span class="op">=</span><span class="st">"Random Classifier - AUC 0.5"</span>)</span>
+<span id="cb5-3"><a href="#cb5-3" aria-hidden="true" tabindex="-1"></a>plt.plot([<span class="dv">0</span>,<span class="dv">0</span>, <span class="dv">1</span>], [<span class="dv">0</span>,<span class="dv">1</span>, <span class="dv">1</span>],<span class="st">"-."</span>, label<span class="op">=</span><span class="st">"Ideal Classifier - AUC 1.0"</span>)</span>
+<span id="cb5-4"><a href="#cb5-4" aria-hidden="true" tabindex="-1"></a>plt.xlabel(<span class="st">"False Positive Rate (Sensitivity)"</span>)</span>
+<span id="cb5-5"><a href="#cb5-5" aria-hidden="true" tabindex="-1"></a>plt.ylabel(<span class="st">"True Positive Rate (1-Specificity)"</span>)</span>
+<span id="cb5-6"><a href="#cb5-6" aria-hidden="true" tabindex="-1"></a></span>
+<span id="cb5-7"><a href="#cb5-7" aria-hidden="true" tabindex="-1"></a>plt.legend()</span>
+<span id="cb5-8"><a href="#cb5-8" aria-hidden="true" tabindex="-1"></a>plt.show()</span></code><button title="Copy to Clipboard" class="code-copy-button"><i class="bi"></i></button></pre></div>
 </details>
 <div class="cell-output cell-output-display">
 <p><img src="roc_files/figure-html/cell-7-output-1.png" class="img-fluid"></p>
